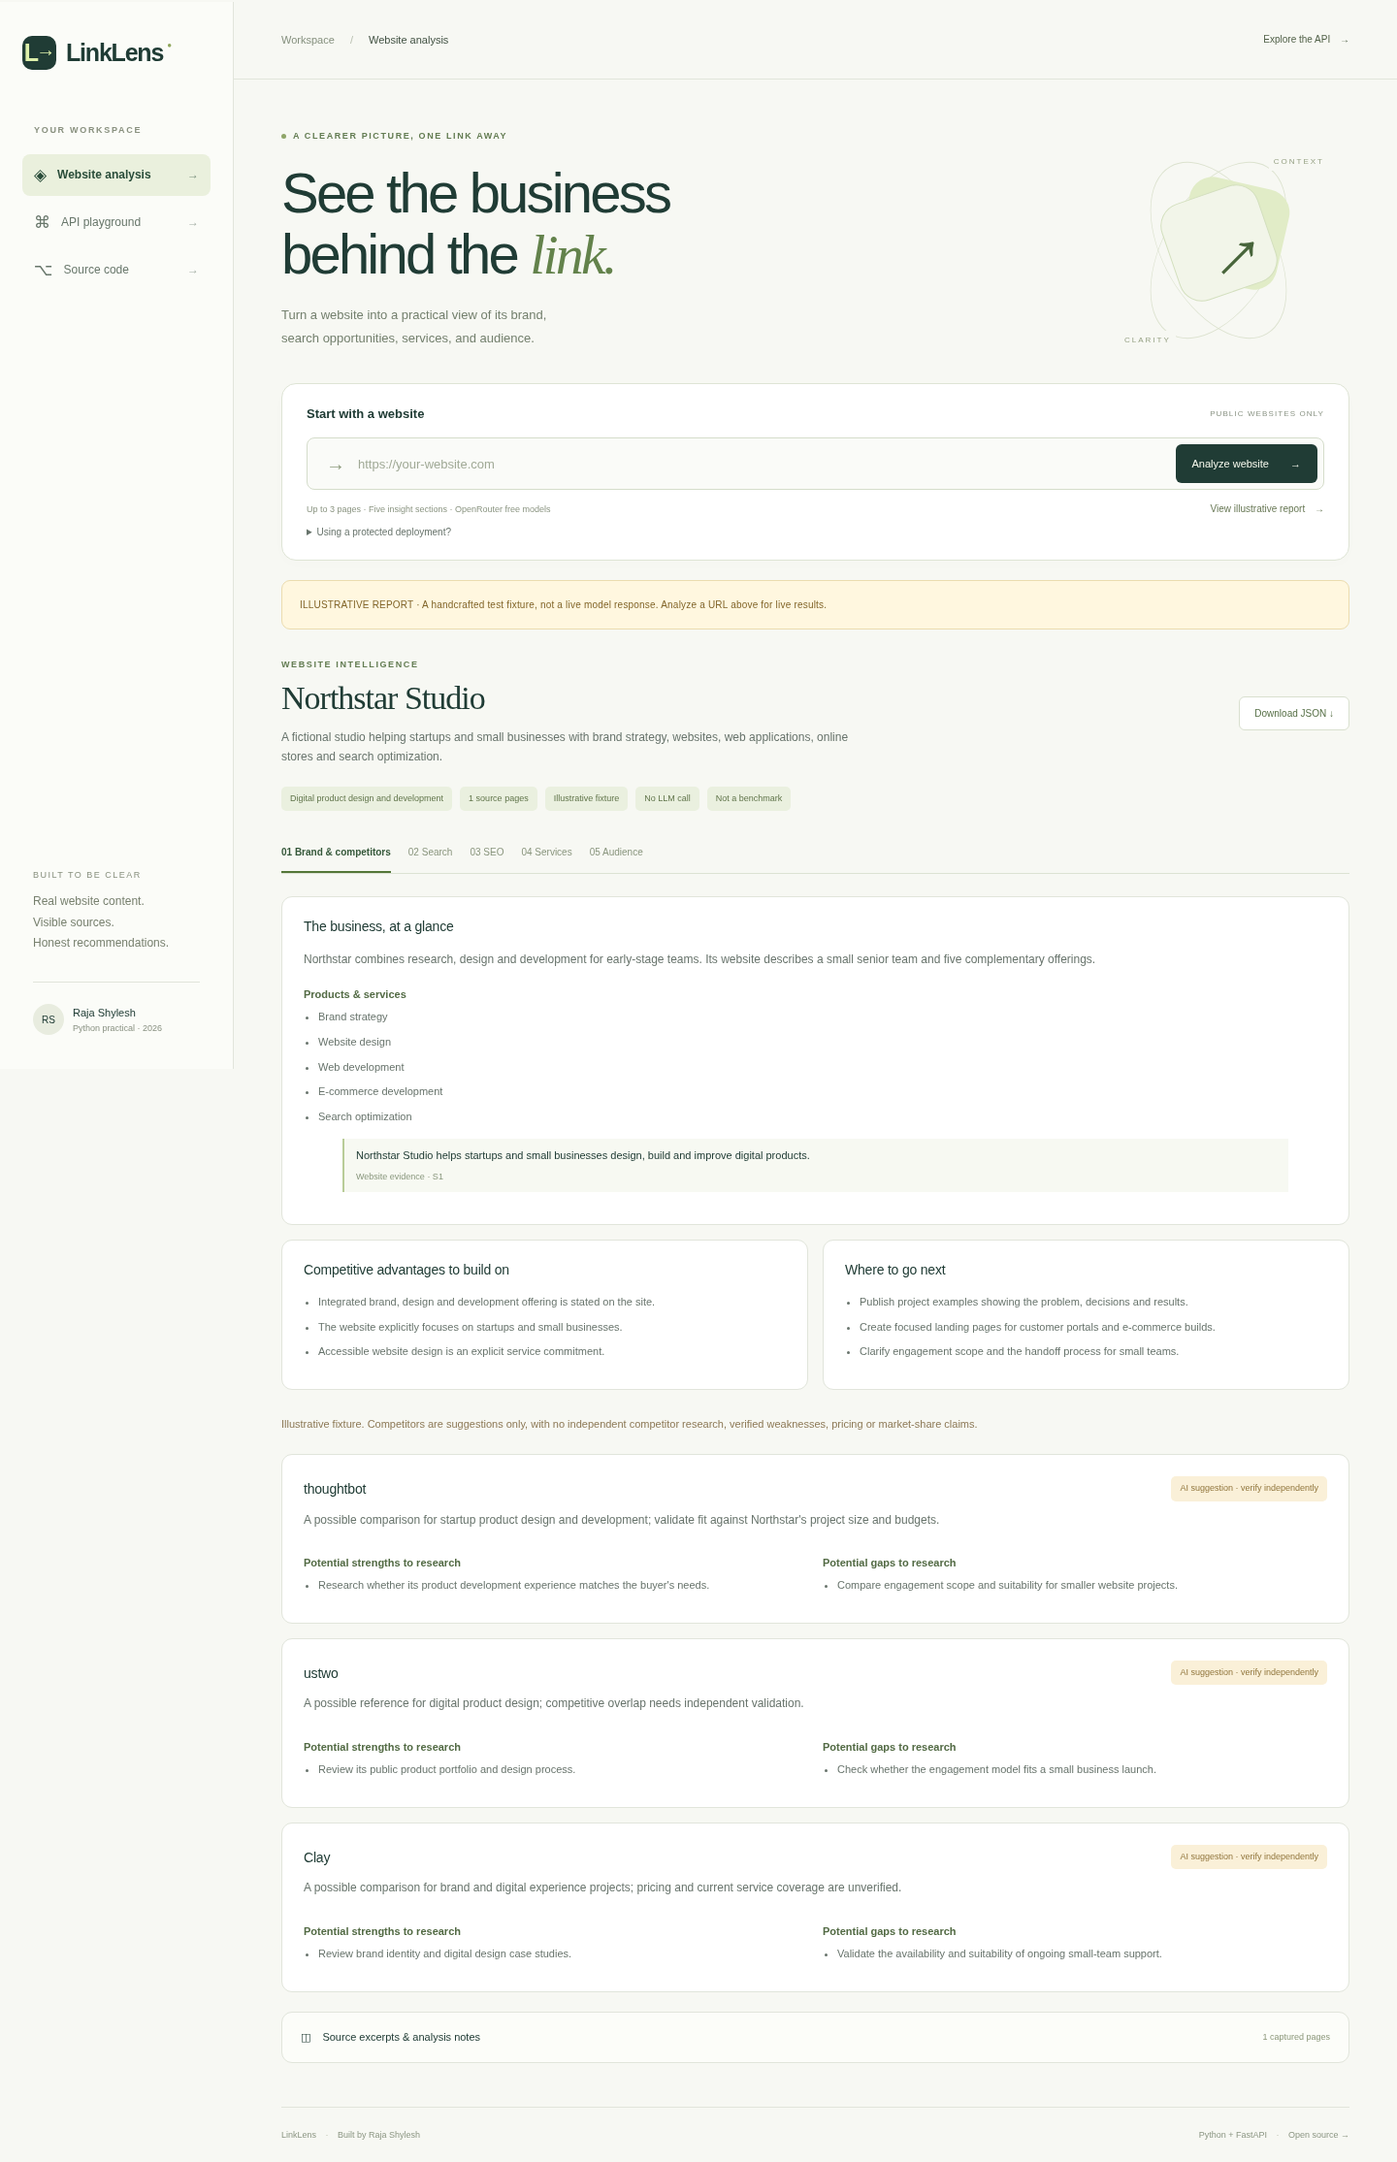
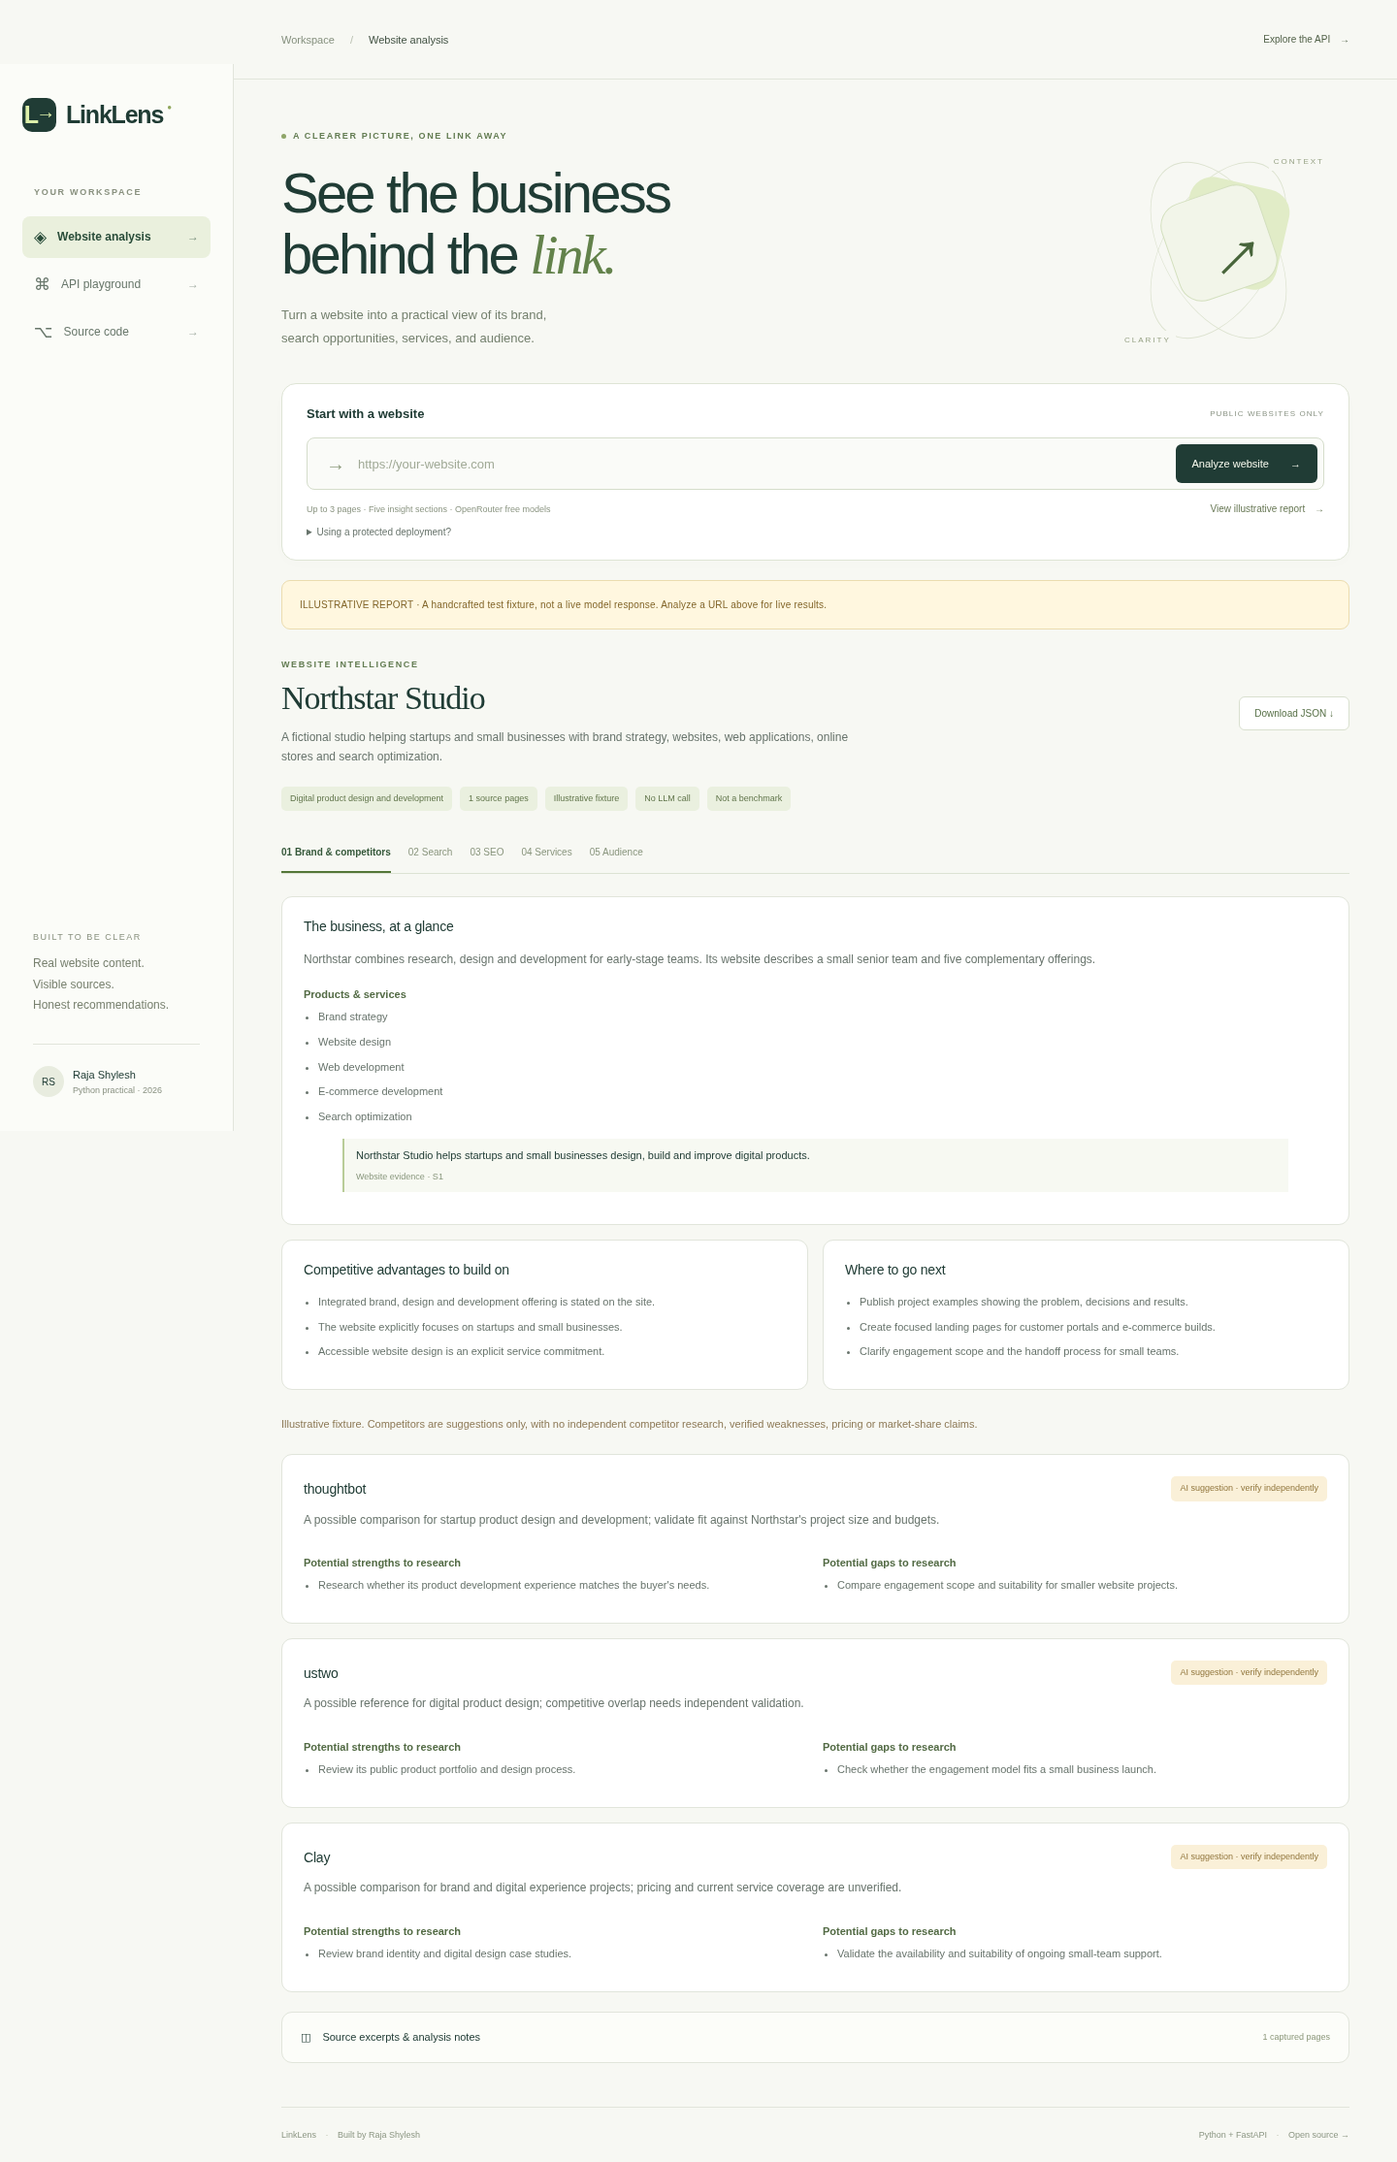
Pin compatible free model and disable optional reasoning after live timeout; document deployment

Changed region(s): [[0.0, 0.0, 0.1562, 0.1548], [0.0312, 0.4024, 0.125, 0.5262]]

diff --git a/app/config.py b/app/config.py
@@ -5,12 +5,13 @@ from pydantic_settings import BaseSettings, SettingsConfigDict
 class Settings(BaseSettings):
     model_config = SettingsConfigDict(env_file=".env", extra="ignore")
     openrouter_api_key: SecretStr = SecretStr("")
-    openrouter_model: str = "openrouter/free"
+    openrouter_model: str = "inclusionai/ling-3.2-flash:free"
     openrouter_fallback_model: str = ""
     llm_strict_schema: bool = True
+    llm_disable_reasoning: bool = True
     analysis_api_key: SecretStr = SecretStr("")
     fetch_timeout_seconds: float = Field(default=12, ge=1, le=30)
-    llm_timeout_seconds: float = Field(default=60, ge=5, le=120)
+    llm_timeout_seconds: float = Field(default=100, ge=5, le=120)
     cache_ttl_seconds: int = Field(default=900, ge=0, le=86400)
     cache_max_entries: int = Field(default=64, ge=1, le=256)
     max_pages: int = Field(default=3, ge=1, le=5)

diff --git a/tests/test_llm.py b/tests/test_llm.py
@@ -17,6 +17,7 @@ async def test_request_uses_free_model_schema_and_separates_untrusted_content(se
         assert request.url == "https://openrouter.ai/api/v1/chat/completions"
         payload = json.loads(request.content)
         assert payload["model"] == "openrouter/free"
+        assert payload["reasoning"] == {"enabled": False}
         assert payload["response_format"]["type"] == "json_schema"
         assert payload["provider"]["max_price"] == {"prompt": 0, "completion": 0}
         assert payload["provider"]["require_parameters"] is True

diff --git a/app/services/llm_service.py b/app/services/llm_service.py
@@ -116,6 +116,8 @@ class LLMService:
             "temperature": 0.2,
             "max_tokens": 6500,
         }
+        if self.settings.llm_disable_reasoning:
+            payload["reasoning"] = {"enabled": False}
         try:
             async with asyncio.timeout(self.settings.llm_timeout_seconds):
                 response = await self.client.post(

diff --git a/tests/conftest.py b/tests/conftest.py
@@ -17,6 +17,7 @@ def settings():
     return Settings(
         _env_file=None,
         openrouter_api_key="test-not-a-real-key",
+        openrouter_model="openrouter/free",
         max_pages=1,
         requests_per_minute=60,
         cache_ttl_seconds=60,

diff --git a/README.md b/README.md
@@ -27,7 +27,7 @@ uvicorn app.main:app --host 0.0.0.0 --port 4000 --no-proxy-headers
 - **API:** `POST http://localhost:4000/link-analysis`
 - **Readiness information:** `GET /health` (`analysis_configured` reports key presence, not provider validity)
 
-Get your own key from [OpenRouter](https://openrouter.ai/settings/keys). The default model is `openrouter/free`. Only the free router or model IDs ending in `:free` are accepted, and provider routing caps input/output prices at zero. There is no paid fallback. A key is still required for free models, and account/availability limits apply.
+Get your own key from [OpenRouter](https://openrouter.ai/settings/keys). The default model is the explicit free model `inclusionai/ling-3.2-flash:free`, with reasoning disabled for this structured extraction task. `openrouter/free` is an optional dynamic alternative. Only the free router or model IDs ending in `:free` are accepted, and provider routing caps input/output prices at zero. There is no paid fallback. A key is still required for free models, and account/availability limits apply.
 
 **Verification status:** [94 automated tests](docs/evidence/tests.log) and [Chromium UI checks](docs/evidence/browser-check.json) validate the local implementation. Fixtures intercept website and LLM traffic; these are not live-model benchmarks. The illustrative UI report is explicitly labeled and never used by the analysis endpoint. Real analysis requires a configured OpenRouter key and public outbound HTTPS access. Deployment and live model evidence must be recorded before describing a demo as live; see [deployment instructions](docs/deployment.md).
 
@@ -127,14 +127,15 @@ Research checked **18 November 2026**, from provider documentation and the publi
 
 | Provider / model | Input / output | Context | JSON support | Speed & accuracy assessment | Suitability |
 |---|---:|---:|---|---|---|
-| OpenRouter `openrouter/free` | **$0 / $0** for the free model route | Varies; router catalog lists 200k | Feature-filtered routing; strict schema requested and validated locally | Availability and selected model vary. Accuracy/latency unmeasured. | **Selected for this zero-budget demo.** Record `model_used` for each response. |
+| OpenRouter `inclusionai/ling-3.2-flash:free` | **$0 / $0** | 1,048,576 | Catalog advertises structured outputs; schema validated locally | Hybrid reasoning can be disabled. App accuracy unmeasured. | **Selected for this zero-budget demo.** Explicit ID avoids random routing. |
+| OpenRouter `openrouter/free` | $0 / $0 | Varies; catalog lists 200k | Feature-filtered routing | A real trial exceeded 60 seconds; selected model was unknown because no response arrived. | Optional free alternative; less reproducible. |
 | OpenAI `gpt-6-luna` | $0.10 / $0.50 | 1,050,000 | Structured outputs | Provider positions it for efficient high-volume work; app accuracy unmeasured. | Low-cost paid candidate for a later controlled evaluation. |
 | Google `gemini-3.5-flash-lite` | $0.30 / $2.50; eligible free tier has quotas | 1,048,576 | Structured outputs | Provider describes low-latency extraction; app accuracy unmeasured. | Direct-provider alternative with explicit model selection. |
 | Anthropic `claude-haiku-5-5` | $0.10 / $0.50 for prompts ≤100k; higher above 100k | 1M | Structured output support subject to API/model configuration | Provider describes latency-sensitive extraction; app accuracy unmeasured. | Paid candidate for comparing quote grounding and JSON validity. |
 
 Sources: [OpenRouter free router](https://openrouter.ai/docs/guides/routing/routers/free-router), [OpenRouter structured output](https://openrouter.ai/docs/guides/features/structured-outputs), [OpenAI model/pricing](https://developers.openai.com/api/docs/models/gpt-6-luna), [Gemini pricing](https://aistudio.google.com/docs/pricing#gemini-3.5-flash-lite), [Gemini model](https://aistudio.google.com/docs/models/gemini-3.5-flash-lite), [Claude model/pricing](https://platform.claude.com/docs/en/models/haiku-5-5/overview). The saved [free-model catalog subset](docs/openrouter-free-models.json) captures actual catalog metadata as of the research date; it is not a promise of ongoing availability.
 
-**Final recommendation for this submission:** OpenRouter with `openrouter/free`, strict JSON Schema and `require_parameters: true`. It meets the user's zero-cost requirement and filters routing to compatible free endpoints. Its random model selection limits reproducibility, so record the actual model ID. For a production decision, compare a pinned free model against the paid candidates on representative websites; do not claim a universal accuracy winner. Paid provider adapters are **researched alternatives, not implemented fallback integrations**.
+**Final recommendation for this submission:** OpenRouter with `inclusionai/ling-3.2-flash:free`, strict JSON Schema, `require_parameters: true`, and `reasoning.enabled: false`. The live catalog lists a 1M context, structured output support, zero input/output pricing and optional reasoning. This explicit ID avoids random model selection. The initial `openrouter/free` trial timed out after 60 seconds, so no model identity or completed-response quality was measured for that attempt. Validate the pinned candidate on real sites before claiming accuracy; free availability still varies. Paid provider adapters are **researched alternatives, not implemented fallback integrations**.
 
 **Fallback:** optionally set `OPENROUTER_FALLBACK_MODEL` to an explicit free model supporting structured outputs, selected from the live catalog. One alternate call is allowed for rate/availability/timeout/invalid-output failures; authentication failures are not retried. No fallback is configured by default. Model IDs may retire; refresh the catalog instead of assuming historical free names remain available.
 
@@ -147,9 +148,9 @@ Sources: [OpenRouter free router](https://openrouter.ai/docs/guides/routing/rout
 | Gemini 3.5 Flash-Lite paid | $0.01115 |
 | Claude Haiku 5.5, ≤100k input | $0.00255 |
 
-Formula: `(input_tokens × input_rate + output_tokens × output_rate) / 1,000,000`. Estimates exclude taxes, search/grounding tools and any extra billed reasoning tokens. Provider-reported usage and cost are returned when available; null means unavailable, not zero. Expected uncached latency is an **unmeasured planning estimate of 10–60 seconds**; free queues may exceed it and timeout. Render cold-start latency is additional. See [evaluation protocol](docs/evaluation.md) for how to produce real measurements.
+Formula: `(input_tokens × input_rate + output_tokens × output_rate) / 1,000,000`. Estimates exclude taxes, search/grounding tools and any extra billed reasoning tokens. Provider-reported usage and cost are returned when available; null means unavailable, not zero. Expected uncached latency is an **unmeasured planning estimate of 10–100 seconds**; free queues may exceed it and timeout. Render cold-start latency is additional. See [evaluation protocol](docs/evaluation.md) for how to produce real measurements.
 
-Cost controls: remove script/style/navigation/footer/form content; deduplicate lines; cap pages, HTML and combined text; avoid sending the schema twice in strict mode; one normal model call; cache only fully validated successes for 15 minutes (64-entry LRU); coalesce simultaneous identical requests; bound concurrency; cap output at 6,500 tokens. Cached responses retain the **original generation's usage**, not new token charges.
+Cost controls: remove script/style/navigation/footer/form content; deduplicate lines; cap pages, HTML and combined text; avoid sending the schema twice in strict mode; one normal model call; cache only fully validated successes for 15 minutes (64-entry LRU); coalesce simultaneous identical requests; bound concurrency; cap output at 6,500 tokens and disable optional reasoning. Cached responses retain the **original generation's usage**, not new token charges.
 
 ## Tests, evidence and deployment
 

diff --git a/docs/requirements-map.md b/docs/requirements-map.md
@@ -1,0 +1,24 @@
+# Requirements → implementation → verification
+
+Assignment source: [official Link Analysis specification](https://github.com/chivoxai/practical-test/blob/main/link-analysis.md), reviewed 18 November 2026.
+
+| Requirement | Implementation | Verification |
+|---|---|---|
+| Python/FastAPI POST `/link-analysis` on port 4000 | `app/main.py`, `Dockerfile` | Full endpoint integration tests; live deployment smoke script |
+| Valid public URL and graceful inaccessible-site errors | `services/url_guard.py`, `website_extractor.py` | Malformed/private/IPv6/encoded IP/DNS/redirect/error/timeout tests |
+| Actual website content extraction | Bounded HTTPX HTML download, BeautifulSoup cleanup, up to three pages | Parser, source selection, truncation, metadata and script/boilerplate removal tests |
+| Real LLM API integration | Fixed OpenRouter Chat Completions endpoint, free-only model guard and zero-price routing | Request contract/error/schema tests; real provider success must be established by a live smoke check |
+| Five sections | `schemas.ModelOutput` and `Analysis` | Missing-section rejection and full pipeline response |
+| Brand and competitors | Source-quoted brand/offerings; unverified competitor hypotheses with required labels | Quote matching and schema validation; no claim of independent competitor research |
+| Five search queries across five platforms | Exactly five unique queries with enum platforms and all-platform validation | Platform coverage and invalid-field tests |
+| SEO keywords/title/meta/support content | Typed recommendations plus deterministic HTML observations | Response schema and measured title/meta/H1/alt/canonical extraction tests |
+| Top five services | 1–5 offerings with exact quotes for observed services and required inference reasons | Service evidence and inferred-label tests; fewer allowed to avoid fabrication |
+| Audience details and geography | Structured audience fields; geography requires source evidence | Location without evidence rejected |
+| Current model/cost research, three providers | README comparison of OpenRouter plus OpenAI, Google and Anthropic; official source links | Public catalog snapshot and documented arithmetic; performance estimates explicitly not benchmarks |
+| Cost optimization | Text/page/output caps, deduplication, TTL/LRU caching, single-flight concurrency | Cache-hit, expiry, concurrent duplicate and capacity tests |
+| SSRF protection | All DNS answers checked; numeric-IP connections with original Host/TLS SNI; redirects revalidated | Private/mixed-DNS/metadata/redirect/pinned-connection tests |
+| Error management and credentials | Fixed error envelope, optional endpoint key, environment-only secrets, request IDs | Provider body redaction, auth and no-credentials tests; credential scan |
+| Public source/README/examples/evidence | Public GitHub repository, docs, JSON responses, logs/screenshots | CI and remote repository verification |
+| Public FastAPI demo and `/docs` | Render Free Web Service | Verify root, `/docs`, `/health` and a real POST; loading the fixture alone is insufficient |
+
+The invitation and specification contain inconsistent dates (22 and 27 November). Plan to submit by **22 November 2026** unless the recruiter clarifies. This implementation does not follow social accounts or send email automatically; profile links and personal details belong in the user's final submission.

diff --git a/docs/submission-email.md b/docs/submission-email.md
@@ -1,0 +1,25 @@
+To: hr@chivoxai.com
+Subject: [Your Full Name] - Python Practical Link Analysis test review
+
+Dear Recruitment Team,
+
+Thank you for the opportunity to complete the second Python practical test. I have implemented LinkLens, an AI-powered website analysis application using Python, FastAPI and OpenRouter free models.
+
+The application extracts public website content and returns all five required analysis sections, with source excerpts, validated JSON and SSRF protection. The public repository includes setup instructions, API examples, tests, demonstration evidence, and an LLM cost/model comparison.
+
+Full Name: [Your Full Name]
+Live Demo: https://dxora-link-analysis.onrender.com
+API Documentation: https://dxora-link-analysis.onrender.com/docs
+Public GitHub Repository: https://github.com/RajaShylesh112/dxora-link-analysis
+Contact Number: [Your Contact Number]
+Current Location: [City, State]
+Preferred Date and Time for Final Discussion: [Date, Time, IST]
+LinkedIn Profile: [Your LinkedIn URL]
+Instagram Profile: [Your Instagram URL]
+
+The demo runs on Render's Free plan, so the first request after inactivity may take longer while the service wakes. Competitor suggestions and inferred recommendations are explicitly labeled; no search volumes or rankings are invented.
+
+I look forward to discussing the implementation and my design decisions with the Dxora Panel.
+
+Best regards,
+[Your Full Name]

diff --git a/docs/deployment.md b/docs/deployment.md
@@ -10,8 +10,10 @@ A normal **Web Service** works; a paid Blueprint plan, database and Docker are n
 6. Select the **Free** instance type. Do not select Starter or another paid instance.
 7. Add environment variables:
    - `OPENROUTER_API_KEY`: your own secret, entered in Render only.
-   - `OPENROUTER_MODEL`: `openrouter/free`.
+   - `OPENROUTER_MODEL`: `inclusionai/ling-3.2-flash:free`.
    - `LLM_STRICT_SCHEMA`: `true`.
+   - `LLM_DISABLE_REASONING`: `true`.
+   - `LLM_TIMEOUT_SECONDS`: `100`.
    - `PYTHON_VERSION`: `3.12.14` (or rely on the repository's `.python-version`).
    - Optional `ANALYSIS_API_KEY` if you want a protected reviewer endpoint; send that key privately to reviewers, never in GitHub. Leave empty for a public rate-limited demo.
 8. Set Health Check Path to `/health`. The process can be healthy while the LLM key is absent/invalid; verify `analysis_configured` and run the actual API check too.
